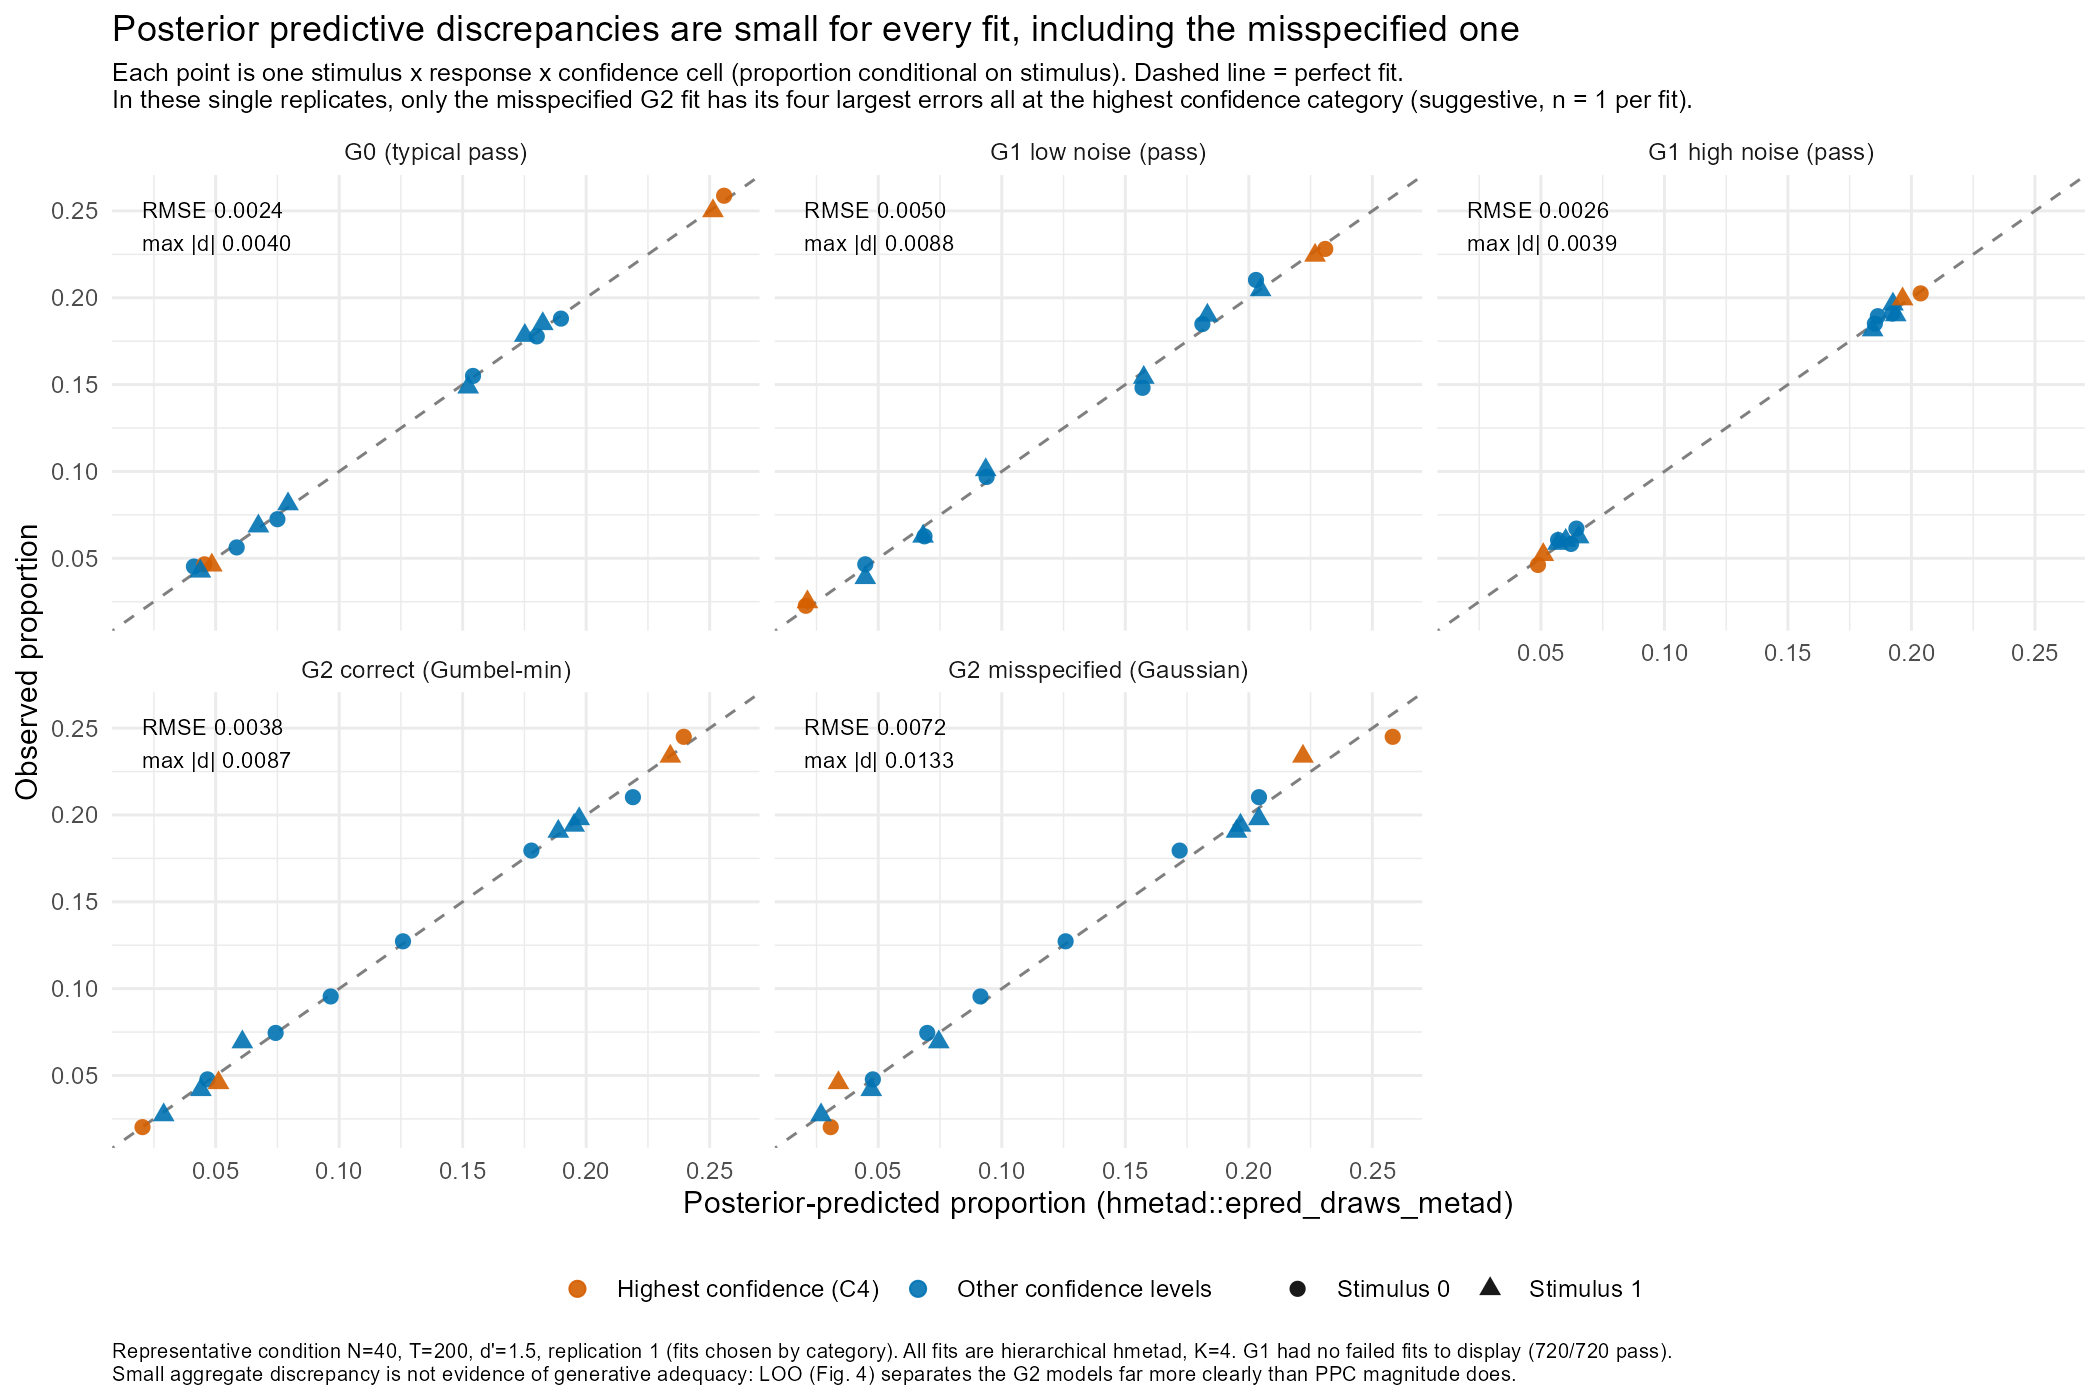
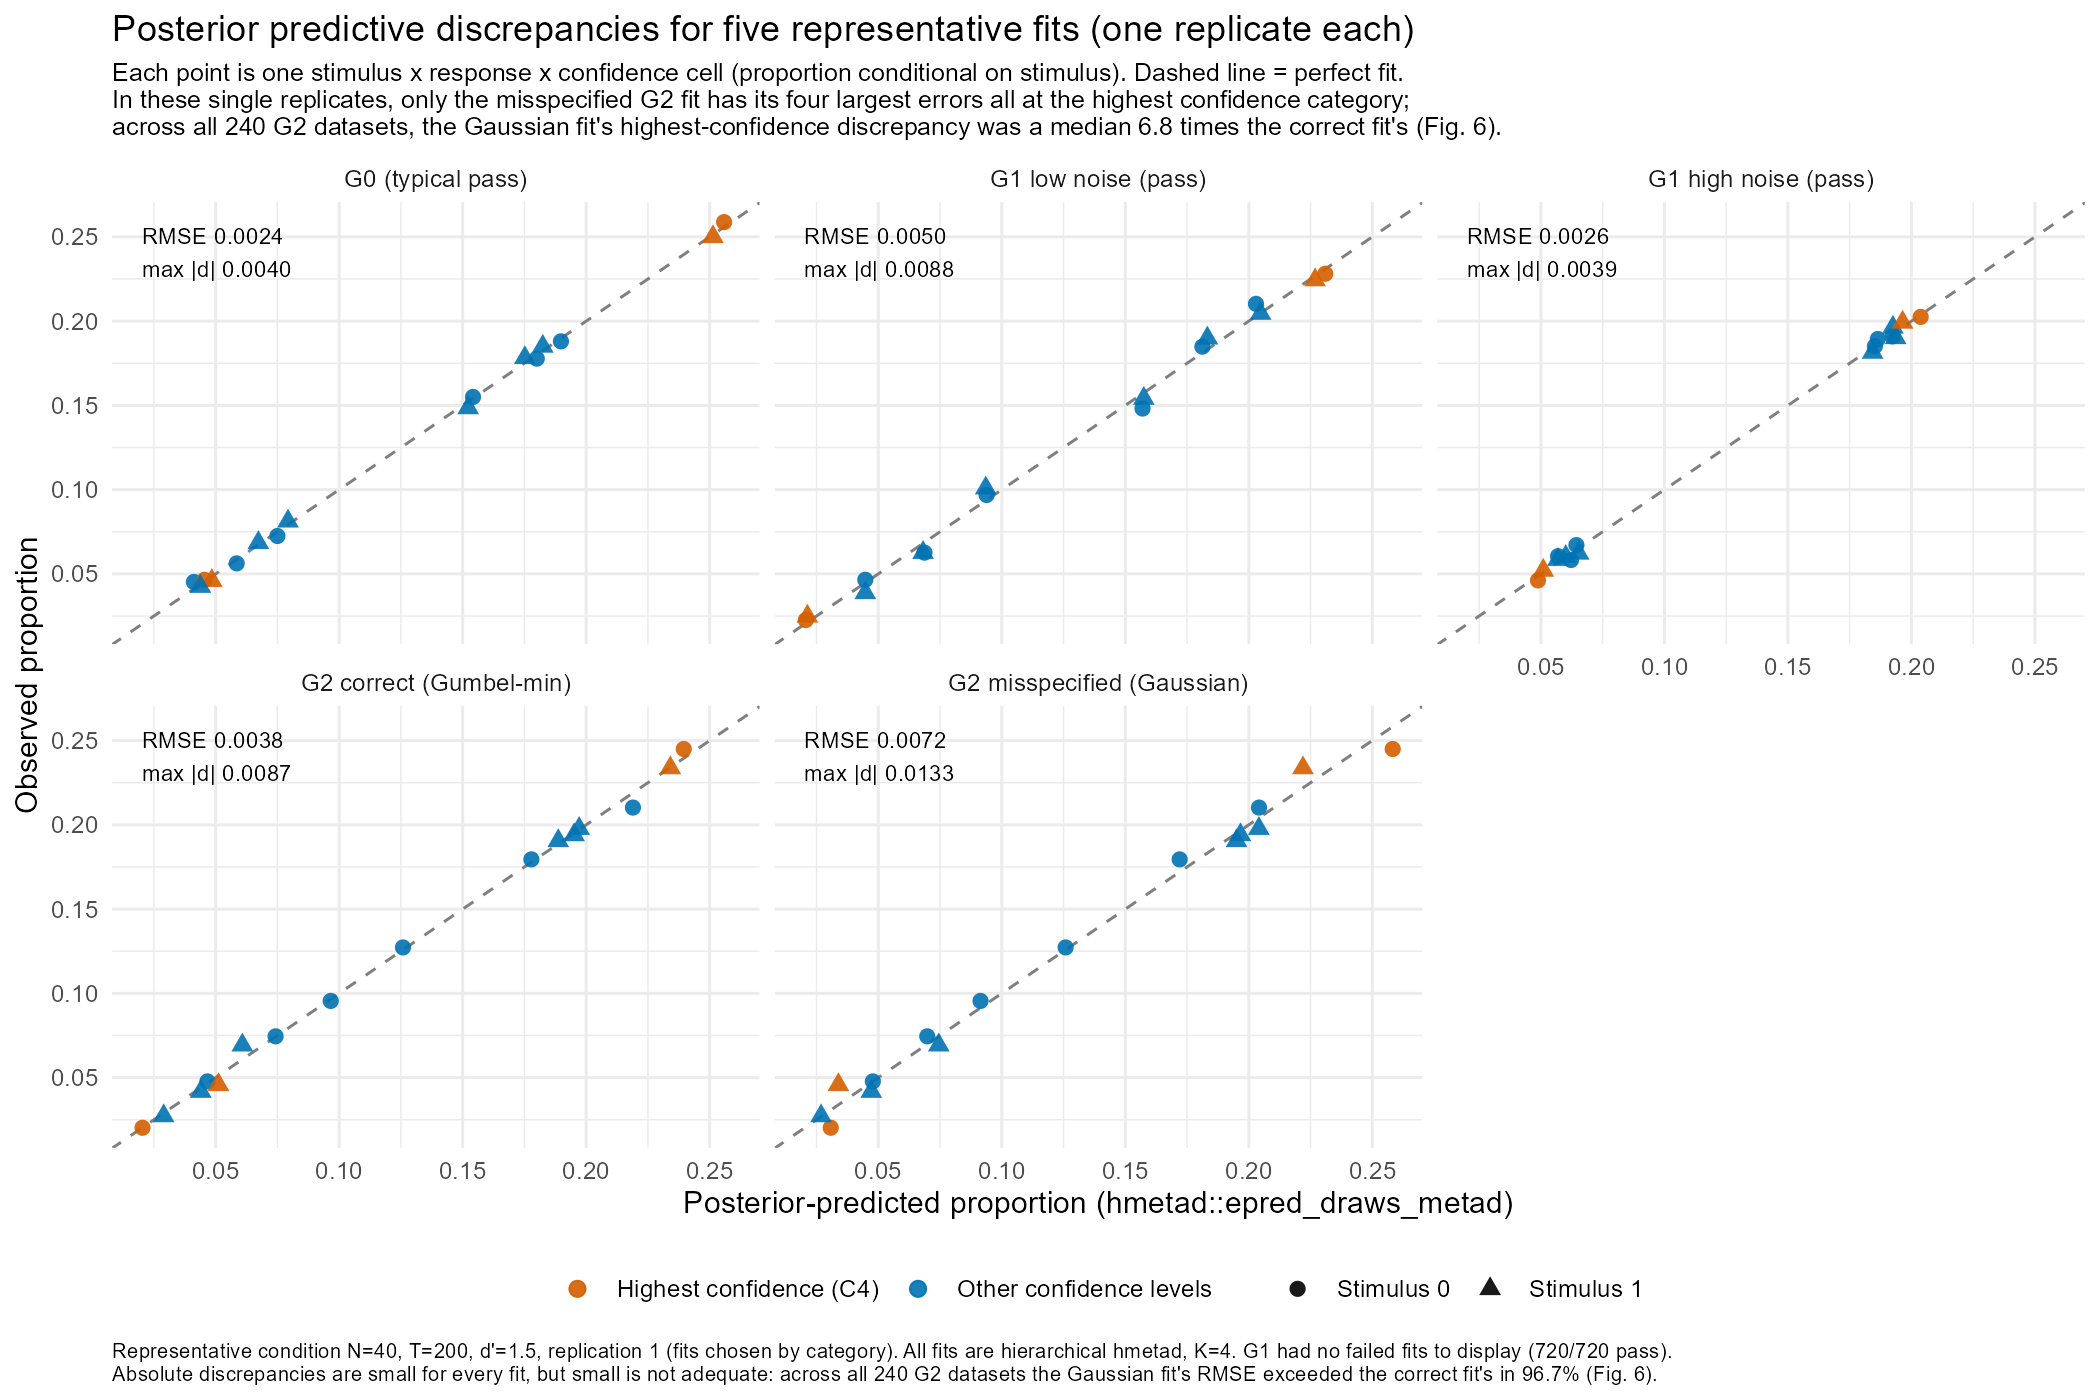
docs: carry the reversed PPC conclusion into Fig. 5, README and supplement; version 1.1.0

diff --git a/manuscript/supplementary_methods.md b/manuscript/supplementary_methods.md
@@ -167,6 +167,15 @@ exists).
 - **PPC.** `hmetad::epred_draws_metad()` on the aggregated data, posterior-mean cell probability
   per participant × that participant's stimulus-specific trial count, summed over participants,
   compared with observed counts as proportions conditional on stimulus.
+- **PPC across all G2 fits (v1.1).** `code/04_ppc_and_comparison/g2_ppc_all.R`, from each fit's
+  saved `epred_summary` (posterior-mean cell probabilities; predictive draws were not saved) and
+  `agg`, no refitting. Per fit: (1) the aggregate RMSE above; (2) mean |observed − predicted| over
+  the four confidence = 4 cells of (1); (3) Σ (n − n_s p̂)² / (n_s p̂) over participant × cell,
+  divided by N·16 − N·2. Detection threshold per N × T × d′ cell = 19th order statistic of the 20
+  correct-family values (`quantile(x, 0.95, type = 1)`); a Gaussian fit is detected if strictly
+  above it. Pooled detection = mean of the 12 per-cell rates. The script first reproduces (1) for
+  grid 1321/1322 from `ppc_discrepancy_summary.csv` (difference 1.1e-17). Design, decision rule
+  and revision history: `docs/design_decisions.md`, "v2 extension 1".
 - **Empirical d′.** From pooled hit/false-alarm counts per replicate with proportions clamped to
   [1/(2·max(n₀, n₁)), 1 − that].
 
@@ -216,5 +225,13 @@ Each is recorded with its date in `docs/analysis_log.md`.
    −0.177 to −0.025, G2-correct −0.092 to −0.007, G2-misspecified +0.064 to +0.195.
 4. **K-generic generators** (S4) and **a hardcoded interpretation string** in the K = 6
    robustness table that contradicted the computed result; both fixed before results were used.
-5. **PPC claim scope.** The confidence-level-4 pattern in the misspecified fit's discrepancies is
-   one replicate per fit and is reported as suggestive.
+5. **PPC claim scope.** In v1.0 the confidence-level-4 pattern in the misspecified fit's
+   discrepancies rested on one replicate per fit and was reported as suggestive. Across all 240 G2
+   datasets (v1.1) the Gaussian fit's highest-confidence discrepancy was a median 6.8 times the
+   correct fit's.
+6. **PPC conclusion reversed (v1.1).** v1.0 concluded from one replicate that aggregate posterior
+   predictive discrepancy did not reveal the G2 misspecification. The pre-specified analysis of all
+   240 G2 datasets reversed this: the Gaussian fit's RMSE was larger in 96.7% of datasets, and
+   oracle-calibrated detection averaged 0.875 over cells. The v1.0 replicate was typical (ratio 1.9);
+   the error was reading a small absolute discrepancy as no signal. Report §4.4; `analysis_log.md`,
+   2026-09-28.

diff --git a/docs/analysis_log.md b/docs/analysis_log.md
@@ -1023,3 +1023,13 @@ Design locked in `4785b35` and `37bed3d` (`design_decisions.md`, "v2 extension 1
   eyeballing absolute RMSE ~0.009 would notice it. Participant-level X2 (stat 3), which is scaled by
   sampling noise, detected it far less often (0.49).
 - **Not yet done.** `manuscript/report.md` not changed; revision planned for v1.1.
+
+## 2026-09-28 - v1.1.0 release preparation
+
+- Report revised (`4faac0e`): §3.5 methods, §4.4 results (Fig. 6), abstract, discussion,
+  limitations (vi), next steps and reproducibility statement now carry the reversed PPC conclusion.
+- `fig_5_ppc.R`: title no longer says discrepancies are small "including the misspecified one";
+  subtitle and caption point to the all-G2 result (Fig. 6). Figure regenerated.
+- README status, headline and limitation bullets, repository map; supplement S9 (PPC method) and
+  S13 errata 5-6 updated. Makefile `analyse` target now also runs `g2_ppc_all.R`.
+- `CITATION.cff` version 1.1.0.

diff --git a/docs/deliverables_checklist.md b/docs/deliverables_checklist.md
@@ -19,5 +19,6 @@ Status as of 2026-09-28. "Done" means produced and committed; it does not mean e
 | Single-fit refit reproduces stored draws exactly | `data/interim/` | Done 2026-09-28 (grid cell 721; same machine and versions) |
 | Fresh-clone check (figures only) | n/a | Done 2026-09-28: all five figures rebuild from a clean clone; full-pipeline reproduction (renv::restore + fits) not done |
 | `make` targets run end to end | `Makefile` | Not run (`make` not installed); scripts run individually |
-| Release tag (v1.0.0; v1.0.1 adds report clarifications) | n/a | Done 2026-09-28 |
+| PPC across all 480 G2 fits (v1.1) | `data/processed/v2/`, `outputs/figures/v2/fig_g2_ppc_all.png` | Done 2026-09-28; reverses the v1.0 PPC conclusion |
+| Release tag (v1.0.0; v1.0.1 report clarifications; v1.1.0 PPC correction) | n/a | v1.1.0 prepared 2026-09-28 |
 | Archive (Zenodo/OSF) | n/a | Optional, not done |
